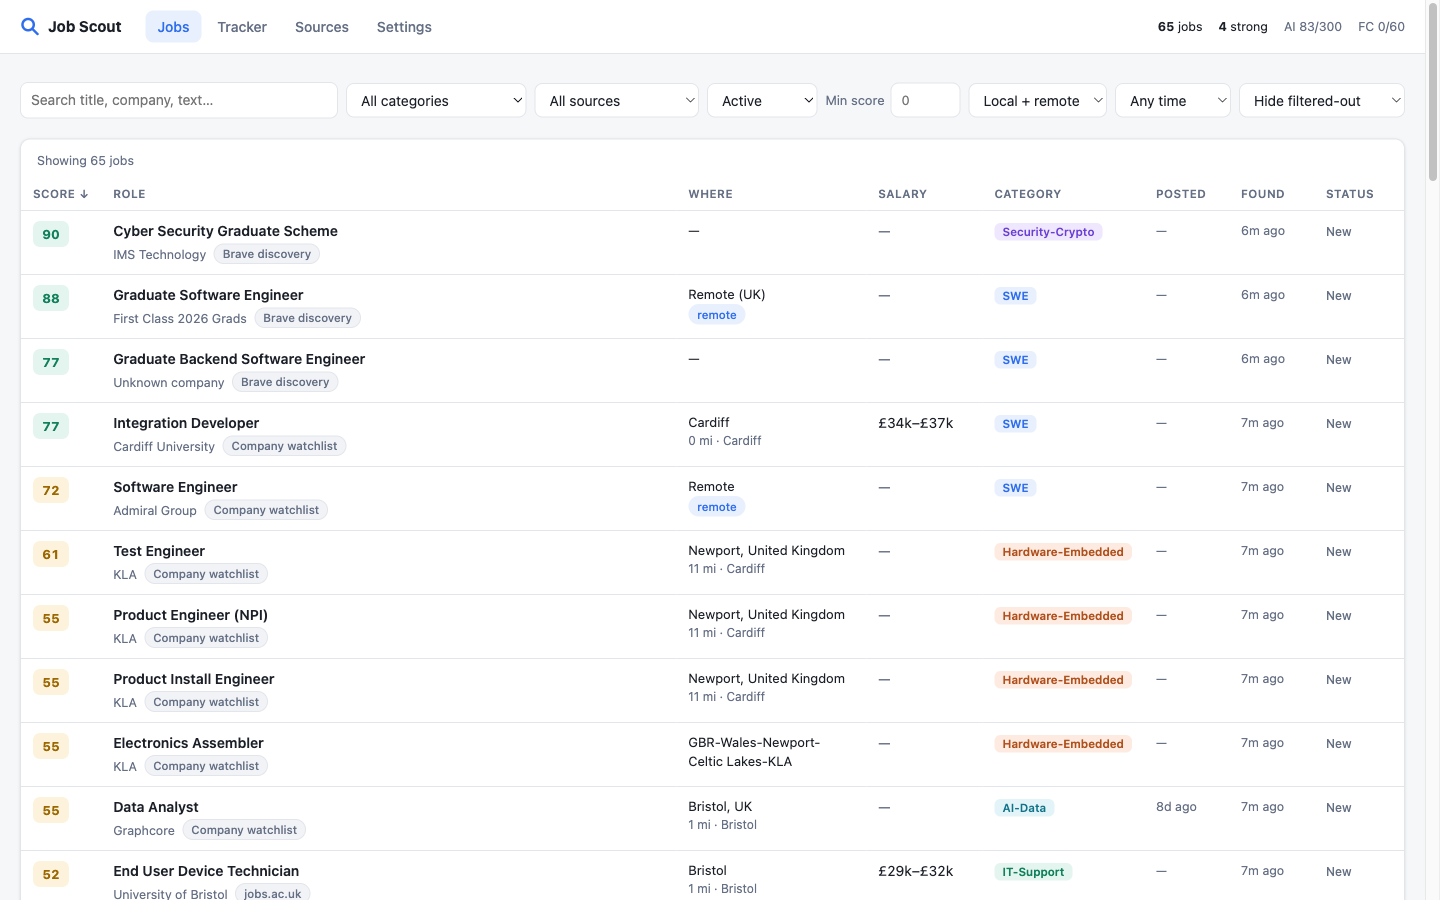
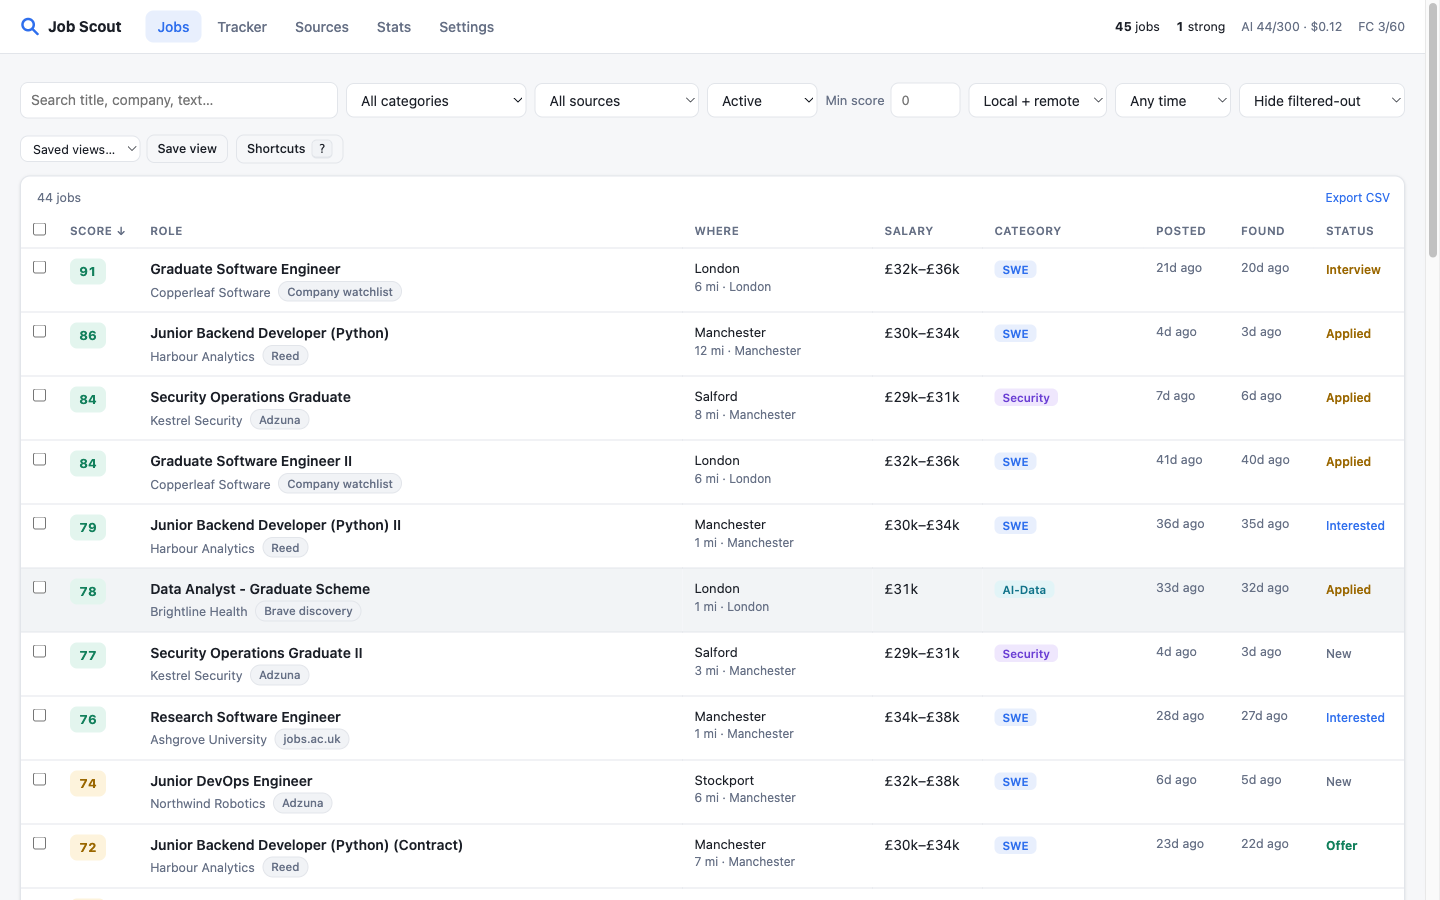
Rewrite README for a public audience and refresh screenshots
Covers what it does, how the pipeline works, Docker/uv/Pi/systemd
quick starts, configuration layers, environment variables, current
API costs (checked September 2026), rotating keys, alerts, the security
model, terms-of-use notes, the CLI and development. Screenshots are
taken from fictional demo data.

diff --git a/app/web/static/app.js b/app/web/static/app.js
@@ -11,7 +11,7 @@
     if (!drawer) return;
     htmx.ajax("GET", "/job/" + id, { target: "#drawer" }).then(() => {
       document.body.classList.add("drawer-open");
-      $(".drawer-head .close", drawer)?.focus();
+      $(".drawer-head .close", drawer)?.focus({ preventScroll: true });
     });
     document.querySelectorAll("tr.sel").forEach((r) => r.classList.remove("sel"));
     document.querySelector('tr[data-id="' + id + '"]')?.classList.add("sel");

diff --git a/README.md b/README.md
@@ -1,134 +1,296 @@
 # Job Scout
 
-An always-on job finder for early-career software engineers. It pulls vacancies from job-board APIs, university and
-employer careers systems, scraped boards and web search. It merges duplicates, filters by commute distance and
-seniority, and has Claude score each remaining role against the candidate's profile. Everything appears in a web UI
-with sorting, source-specific application instructions, contact details, drafted application notes and an application
-tracker. Strong matches trigger a push notification through Home Assistant.
+[![CI](https://github.com/Spuddy10345/job-scout/actions/workflows/ci.yml/badge.svg)](https://github.com/Spuddy10345/job-scout/actions/workflows/ci.yml)
+[![Licence: MIT](https://img.shields.io/badge/licence-MIT-blue.svg)](LICENSE)
 
-Built for my own search: a Software Engineering graduate (post-quantum cryptography dissertation) looking for a first
-role around Cardiff, South Wales, Bristol or remote.
+A self-hosted job finder that runs around the clock. It collects vacancies from job-board APIs,
+employers' own careers systems, university job sites, scraped boards and web search. Duplicates
+are merged, jobs outside your commute or seniority range are filtered out, and Claude scores what
+remains against your profile and CV. Everything lands in a web UI with sorting, per-advert
+application steps, contact details, drafted application notes, an application tracker and stats.
+Strong matches get pushed to your phone.
 
 ![Jobs list](docs/screenshots/jobs.png)
 
-| Job detail | Tracker | Mobile |
+| Job detail | Tracker | Stats |
 |---|---|---|
-| ![Job drawer](docs/screenshots/drawer.png) | ![Tracker](docs/screenshots/tracker.png) | ![Mobile](docs/screenshots/mobile.png) |
+| ![Job detail](docs/screenshots/drawer.png) | ![Tracker](docs/screenshots/tracker.png) | ![Stats](docs/screenshots/stats.png) |
+| **First-run setup** | **Sources** | **Mobile** |
+| ![Setup](docs/screenshots/setup.png) | ![Sources](docs/screenshots/runs.png) | ![Mobile](docs/screenshots/mobile.png) |
+
+*Screenshots use made-up demo data (`scripts/seed_demo.py`).*
+
+## What it does
+
+- **Collects** from Adzuna and Reed (official APIs), employers' applicant-tracking systems
+  (Greenhouse, Lever, Ashby, SmartRecruiters, Workday), any careers page you point it at,
+  jobs.ac.uk, optional scraped boards (Find a Job, NHS Jobs, Totaljobs, CWJobs, Gumtree, Indeed,
+  LinkedIn) and Brave web search.
+- **Merges and filters.** The same role seen on three sites becomes one row that lists all three.
+  Jobs are dropped for distance, seniority words, years of experience asked for, salary, age or
+  excluded keywords. That's free, and it happens before any AI is used.
+- **Scores with Claude.** Every job gets a 0–100 fit score, a category, a two-line "why", a
+  concrete CV bullet you could earn there, red flags, how to apply for *that* advert, and any
+  contacts it names.
+- **Helps you apply.** One click drafts a cover email or supporting statement in the format the
+  application route expects. Notes, status history, and a drag-and-drop tracker that flags
+  applications that have gone quiet.
+- **Alerts you** through [Apprise](https://github.com/caronc/apprise/wiki) (ntfy, Discord,
+  Telegram, Slack, email, Pushover and 100+ more) and/or Home Assistant, instantly or as a daily
+  digest.
+- **Keeps costs visible.** Daily call and dollar caps, spend tracked from real token usage, prompt
+  caching, and half-price batch re-scoring.
+
+## Why I built this
+
+I built it for my own search: a Software Engineering graduate (post-quantum cryptography
+dissertation) looking for a first role around Cardiff, South Wales, Bristol or remote. It runs 24/7
+on a Raspberry Pi 5. Everything that was specific to me (the profile, search area, scoring rubric
+and watchlist) is now a setting, so it works for anyone's search.
 
 ## How it works
 
 ```mermaid
 flowchart LR
   subgraph Collect
-    A[Adzuna API] & R[Reed API] & U[jobs.ac.uk] & W[Employer ATS APIs<br/>Greenhouse · Workday · Lever · Ashby]
-    F[Boards via Firecrawl<br/>Find a Job · Indeed · Gumtree · CWJobs · NHS] & B[Brave web search]
+    A[Adzuna / Reed APIs] & W[Employer ATS APIs<br/>Greenhouse · Lever · Ashby · Workday] & U[jobs.ac.uk]
+    F[Boards & careers pages<br/>via Firecrawl + Claude extraction] & B[Brave web search]
   end
-  Collect --> N[Normalise + dedupe<br/>URL cleaning, company/title fingerprint]
-  N --> G[Geocode<br/>postcodes.io → OSM Nominatim]
+  Collect --> N[Normalise + dedupe<br/>clean URLs, company/title fingerprint]
+  N --> G[Geocode<br/>postcodes.io → OSM Nominatim, cached]
   G --> H[Hard filters<br/>radius · seniority · years · salary · age]
-  H --> S[Claude Haiku scoring<br/>structured output]
+  H --> S[Claude scoring<br/>structured output, cached prompt]
   S --> DB[(SQLite)]
   DB --> UI[FastAPI + HTMX UI]
-  DB --> HA[Home Assistant push]
-  UI -- on demand --> C[Claude Sonnet<br/>application notes]
+  DB --> AL[Alerts<br/>Apprise · Home Assistant]
+  UI -- on demand --> C[Claude<br/>application notes]
+  UI -- Re-score all --> BA[Message Batches API<br/>half price]
 ```
 
-**It's a pipeline, not a free-running agent.** The deterministic steps (collection, dedupe, filtering) are cheap,
-repeatable and testable. The model is only used for judgement: fit, category, the "CV angle", how to apply for this
-particular advert, and contact extraction. That keeps the cost at about £0.003 per job and makes results
-explainable.
+**It's a pipeline, not a free-running agent.** Collecting, deduplicating and filtering are
+deterministic, cheap and testable. The model is only used for judgement: fit, category, the CV
+angle, how to apply for this particular advert, and pulling listings out of pages that have no
+API. That keeps costs low and results explainable.
 
-Design points worth a look:
+Design points:
 
-- **Use APIs before scraping.** Adzuna and Reed have official APIs. Many employers expose public applicant-tracking
-  endpoints (Greenhouse, Workday's CXS JSON, Lever, Ashby, SmartRecruiters), which are exact and free. Scraping is
-  only used for boards without an API. Firecrawl renders those pages to markdown for 1 credit each, and Haiku
-  extracts the listings. That's 5× cheaper than Firecrawl's own JSON mode.
-- **Change detection.** "Page" watchlist entries are hashed, so the LLM extraction only runs when a careers page
-  actually changes.
-- **Deduplication.** Each job gets a fingerprint from its normalised title, company (with suffixes like
-  Ltd/Limited/PLC removed) and location, plus a cleaned URL. The same role found on Reed and Adzuna becomes one
-  row that lists both sources.
-- **Geocoding.** OS Open Names (postcodes.io) indexes Welsh places by their Welsh name ("Casnewydd", not
-  "Newport") and only covers Great Britain. So only city/town matches on either name are accepted, and anything
-  else goes to OpenStreetMap Nominatim. Nominatim is rate-limited to 1 request/second and biased toward the search
-  centres. Results are cached in SQLite.
-- **Structured outputs.** `messages.parse()` with Pydantic models means the pipeline never repairs JSON. Search
-  results often arrive with jumbled titles ("Company | Job"), so the scoring call also returns the advert's real
-  title, company and location. The location filter then re-runs on the corrected values.
-- **Budgets.** Daily caps on AI calls and Firecrawl credits, a free SQLite call counter, and Brave throttled to its
-  free tier's 1 request/second.
-- **Concurrency.** APScheduler runs the collectors in threads over SQLite in WAL mode. Geocoding happens before
-  any write transaction opens, so a long ingest never deadlocks against the cache writes.
+- **APIs before scraping.** Many employers expose public applicant-tracking endpoints that are
+  exact and free. Firecrawl is only used for boards without an API. It renders the page to
+  markdown for 1 credit, and Claude extracts the listings.
+- **Change detection.** Careers pages on the watchlist are hashed, so extraction only runs when a
+  page actually changes.
+- **Deduplication.** A fingerprint of the normalised title, company (minus Ltd/PLC/…) and town,
+  plus a cleaned URL, merges the same job across sources.
+- **Geocoding.** postcodes.io covers Great Britain (Welsh places by their Welsh names, which is
+  handled). Everything else goes to OpenStreetMap Nominatim at its required 1 request/second.
+  Results are cached.
+- **Structured outputs.** `messages.parse()` with Pydantic models means the pipeline never repairs
+  JSON. Allowed categories are built from your settings, so the model can only pick one of yours.
+  Web-search hits often have jumbled titles, so the scoring call also returns the advert's real
+  title, company and location, and the location filter re-runs on them.
+- **Cost control.** The rubric + profile + CV prefix is identical for every job, so it's
+  prompt-cached. "Re-score all" goes through the Message Batches API at half price. Every call's
+  tokens are priced and capped per day.
+- **Concurrency.** APScheduler runs collectors in threads over SQLite in WAL mode. Network work
+  (geocoding, batch results) happens before write transactions open, so a long ingest never
+  deadlocks against cache writes.
 
-## Features
+## Quick start
 
-- **Jobs:** sort by score, date, salary, distance or company. Filter by category, source, status, remote, minimum
-  score and age, or search free text. A "new since last visit" marker, and deep links (`/?job=123`).
-- **Job drawer:**
-  - the model's reasoning, a concrete CV bullet you could earn in the role, and red flags
-  - **How to apply:** steps for this specific advert, plus site-specific guidance (Indeed profile CV, Gumtree
-    reply form, university supporting statements, Civil Service Success Profiles)
-  - contacts from the advert, the company's website and LinkedIn (via Brave), Companies House and Glassdoor links
-  - timestamped notes and status history
-  - **Fetch full advert & re-score**
-  - **Draft application note**, in the format that fits the application route
-- **Tracker:** a board from Interested to Offer, with follow-up flags on applications that have gone quiet for
-  10 days or more.
-- **Sources:** the last and next run for each source, found / new / merged / filtered / scored counts, errors, and
-  *Run now*.
-- **Settings (all in the UI):**
-  - profile in markdown bullets, CV upload (PDF, DOCX or MD), and a profile + CV / profile-only / CV-only switch
-  - search centres and radii, remote on/off with a remote penalty, minimum salary, maximum advert age
-  - search terms for each source type, seniority words, excluded keywords, maximum years of experience asked for,
-    and score adjustments per category
-  - sources on/off with run intervals, and the company watchlist
-  - Home Assistant alerts with quiet hours and a test button
-  - model choice, daily budgets, and *Re-score all*
+You need Docker, or Python 3.12+ with [uv](https://docs.astral.sh/uv/). Only an Anthropic key is
+needed for scoring. Adzuna and Reed keys are free, and jobs.ac.uk plus the employer watchlist work
+with no keys at all.
 
-## Running it
+### Docker (recommended)
 
 ```bash
-cp .env.example .env          # add the keys you have - sources without keys switch themselves off
+git clone https://github.com/Spuddy10345/job-scout && cd job-scout
+cp .env.example .env        # add the keys you have
+docker compose up -d        # pulls ghcr.io/spuddy10345/job-scout (amd64 + arm64)
+open http://localhost:8080  # the setup page walks you through the rest
+```
+
+Use `docker compose up -d --build` to build from your checkout instead. Data (the SQLite
+database, your uploaded CV and the session key) lives in `./data`.
+
+By default the port is only bound to `127.0.0.1`. To use it from your phone or another machine,
+set `JOBSCOUT_BIND=0.0.0.0` **and** `JOBSCOUT_PASSWORD` in `.env`, or put it behind Tailscale or
+an authenticating reverse proxy. See [Security](#security).
+
+### Without Docker
+
+```bash
+cp .env.example .env
 uv sync
-uv run uvicorn app.main:app --port 8080
+uv run python -m app serve        # http://127.0.0.1:8080
 ```
 
-Or with Docker (this is how it runs 24/7 on a Raspberry Pi 5):
+`docs/deploy/job-scout.service` is a hardened systemd unit for running it this way on a server or
+Raspberry Pi.
 
-```bash
-docker compose up -d --build
-curl localhost:8080/healthz
-```
+### Raspberry Pi
 
-Data (SQLite + uploaded CV) lives in `./data`. Starting settings come from `config/defaults.yaml`. After the first
-run, the Settings page is the source of truth.
+The published image is multi-arch, so `docker compose up -d` works on a Pi 4 or 5 with a 64-bit
+OS. Compose caps the container at 512 MB of RAM.
 
-| Key | Used for | Cost |
+## Configuration
+
+There are three layers, each overriding the one before:
+
+1. **`config/defaults.yaml`**: neutral starting settings, shipped with the app.
+2. **`config/local.yaml`** (optional, gitignored): your own starting settings. Copy the
+   defaults file and edit the sections you care about. Point `JOBSCOUT_CONFIG` elsewhere if you
+   like. In Docker, uncomment the `local.yaml` volume line in `docker-compose.yml`.
+3. **The Settings page**: once you save there, the database copy wins. "Reset all settings"
+   reseeds from layers 1 and 2.
+
+Everything is editable in the UI:
+
+- profile and CV (PDF, DOCX or Markdown), and whether scoring uses one or both
+- search centres and radii, remote on/off, minimum salary, maximum advert age, country and currency
+- search terms per source type
+- seniority words, excluded keywords, maximum years asked for, and categories with score adjustments
+- the **scoring rubric** in plain words, and who application notes are written for, in which language
+- sources on/off with run intervals, and the company watchlist
+- alerts (instant or digest, quiet hours, threshold)
+- models, daily call/US$ caps, per-model prices, batch re-scoring
+
+### Environment variables
+
+Secrets only ever come from the environment. Any of them can be given as `NAME_FILE=/path` instead
+(Docker secrets). The full annotated list is in [`.env.example`](.env.example).
+
+| Variable | Used for |
+|---|---|
+| `ANTHROPIC_API_KEY` | scoring, careers-page extraction, application notes |
+| `ADZUNA_APP_ID`, `ADZUNA_APP_KEY` | Adzuna search |
+| `REED_API_KEY` | Reed search (UK) |
+| `BRAVE_API_KEY` | web discovery and company lookups (`BRAVE_RPS` sets the rate) |
+| `FIRECRAWL_API_KEY` | boards without APIs, JavaScript careers pages |
+| `APPRISE_URLS` | alert destinations, e.g. `ntfy://ntfy.sh/your-long-random-topic` |
+| `HA_TOKEN` | Home Assistant long-lived token for companion-app alerts |
+| `JOBSCOUT_PASSWORD` | turns on the login page |
+| `JOBSCOUT_SECRET_KEY` | signs the login cookie (auto-generated into `data/` if unset) |
+| `JOBSCOUT_BIND`, `JOBSCOUT_HOST_PORT`, `TZ` | Docker Compose: bind address, host port, time zone |
+| `JOBSCOUT_HOST`, `JOBSCOUT_PORT`, `JOBSCOUT_DATA`, `JOBSCOUT_CONFIG` | running without Docker |
+| `JOBSCOUT_CONTACT` | contact sent to OpenStreetMap Nominatim, as its usage policy asks |
+
+### API keys and what they cost
+
+Prices checked September 2026. Settings → Integrations shows which keys are set, and the Stats page
+shows what you've actually spent.
+
+| Service | Get a key | Cost |
 |---|---|---|
-| `ANTHROPIC_API_KEY` | scoring, extraction, application notes | ~£0.003 per job scored |
-| `ADZUNA_APP_ID` / `ADZUNA_APP_KEY` | Adzuna search | free |
-| `REED_API_KEY` | Reed search | free |
-| `BRAVE_API_KEY` | web discovery, company lookup | free tier |
-| `FIRECRAWL_API_KEY` | boards without APIs, JS careers pages | 1 credit per page |
-| `HA_TOKEN` | push alerts via Home Assistant | free |
+| Anthropic | [console.anthropic.com](https://console.anthropic.com/settings/keys) | Haiku 4.5 is $1 / $5 per million input/output tokens. Scoring a job costs about half a US cent, less once a CV makes the cached prefix long enough. Application notes use Sonnet 5 ($2 / $10). |
+| Adzuna | [developer.adzuna.com](https://developer.adzuna.com/signup) | free |
+| Reed | [reed.co.uk/developers](https://www.reed.co.uk/developers/jobseeker) | free |
+| Brave Search | [api-dashboard.search.brave.com](https://api-dashboard.search.brave.com) | $5 of free credit a month (about 1,000 searches), then pay as you go. The defaults use roughly 150 a month. |
+| Firecrawl | [firecrawl.dev](https://www.firecrawl.dev) | 1,000 free credits a month. 1 credit per page, capped per day in Settings. |
+| Apprise targets | e.g. [ntfy.sh](https://ntfy.sh) | ntfy is free; others vary |
 
-Indeed and LinkedIn don't allow automated access in their terms. Those two sources are off by default and are meant
-only for occasional personal use.
+### Rotating keys
 
-## Tests
+1. Create the new key at the provider (links above), and revoke the old one once the new one works.
+2. Put it in `.env`, or in the file a `NAME_FILE` variable points to.
+3. Restart so it's picked up (keys are read at start-up):
+   - Docker: `docker compose up -d --force-recreate`
+   - systemd: `sudo systemctl restart job-scout`
+   - manual: stop and rerun `uv run python -m app serve`
+4. Check Settings → Integrations shows it as **set**, then press **Run now** on a source (or
+   **Send test** for alerts).
+
+If a key ever leaks (pasted somewhere, committed by mistake), revoke it at the provider first.
+Removing it from git history doesn't un-leak it.
+
+### Alerts
+
+Set `APPRISE_URLS` to one or more [Apprise URLs](https://github.com/caronc/apprise/wiki), separated
+by spaces or commas, then use **Settings → Alerts → Send test**. Examples:
 
 ```bash
-uv run pytest
+APPRISE_URLS="ntfy://ntfy.sh/pick-a-long-random-topic"       # free push to the ntfy app
+APPRISE_URLS="tgram://BOT_TOKEN/CHAT_ID discord://WEBHOOK_ID/TOKEN"
+APPRISE_URLS="mailtos://user:app-password@gmail.com"
+```
+
+For Home Assistant, set `HA_TOKEN` and fill in the URL and `notify` service (e.g.
+`mobile_app_your_phone`) in Settings.
+
+## Security
+
+- **No login by default.** Set `JOBSCOUT_PASSWORD` whenever anyone else can reach the app. A
+  banner warns you when it's being viewed from somewhere other than localhost without one.
+- **Cross-site request protection.** State-changing requests must come from the app's own pages,
+  so a malicious website can't change your settings or trigger actions through your browser.
+- **Secrets stay in the environment.** They're never stored in the database or shown in the UI,
+  and error messages and logs are redacted.
+- **Scraped content is untrusted.** Only `http(s)` links are rendered, a strict
+  Content-Security-Policy blocks inline script, CSV exports defuse spreadsheet formulas, and prompts
+  tell the model to treat adverts as data rather than instructions.
+- **Hardened container.** Non-root, read-only filesystem, no Linux capabilities.
+
+See [SECURITY.md](SECURITY.md) to report a vulnerability.
+
+## Sources and terms of use
+
+Official APIs (Adzuna, Reed, ATS endpoints) are used wherever they exist. Indeed and LinkedIn don't
+allow automated access in their terms, so those sources are **off by default** and are meant only
+for occasional personal use at your own risk. Scraped boards are rate-limited by the daily
+Firecrawl budget. Coverage is UK-first (postcodes.io, Reed, jobs.ac.uk, UK boards). Adzuna,
+employer ATS feeds and Nominatim geocoding work in other countries too: set the country code and
+currency in Settings → Search area.
+
+## Command line
+
+```bash
+uv run python -m app serve              # web UI + scheduler
+uv run python -m app sources            # which sources are on / missing keys
+uv run python -m app run reed watchlist # run sources once, now
+uv run python -m app rescore            # re-score every active job
+```
+
+In Docker, prefix these with `docker compose exec job-scout python -m app …`.
+
+## Development
+
+```bash
+uv sync
+uv run pytest            # uses a throwaway database; never reads your .env or local.yaml
+uv run ruff check .
+pre-commit install       # gitleaks + ruff before every commit
+```
+
+To work on the UI with realistic data and no keys:
+
+```bash
+export JOBSCOUT_DATA=/tmp/jobscout-demo JOBSCOUT_DISABLE_SCHEDULER=1
+uv run python scripts/seed_demo.py && uv run python -m app serve --port 8081
 ```
 
 The tests cover:
-- dedupe and merging across sources, the radius filter, and remote handling
-- seniority, years-of-experience and age filters
-- salary and URL parsing
-- source parsers, run against saved fixtures
-- the LLM layer with a mocked client: score adjustment, field normalisation for search results, and the daily budget
+
+- dedupe and merging, the radius/remote/seniority/experience/age filters, salary and URL parsing
+- source parsers against saved fixtures
+- the LLM layer with a mocked client (schema, rubric, categories, cost accounting, budgets,
+  batches, outage handling)
+- notifications, schema migrations, CSRF, login, redaction, output sanitising
+- the web pages and actions
+
+CI runs lint, tests, a full-history gitleaks scan and a Docker build. Tagging `vX.Y.Z` publishes a
+multi-arch image to GHCR.
+
+## Roadmap
+
+- htmx 4 migration (2.x is supported indefinitely, so no rush)
+- More non-UK sources and a geocoder that isn't GB-first
+- Import applications from email
 
 ## Stack
 
-Python 3.13 · FastAPI · HTMX · SQLModel/SQLite · APScheduler · httpx · selectolax · Anthropic SDK · Docker
+Python 3.13 · FastAPI · HTMX 2 · SQLModel/SQLite · APScheduler · httpx · selectolax · Anthropic SDK ·
+Apprise · Docker
+
+## Licence
+
+[MIT](LICENSE)
